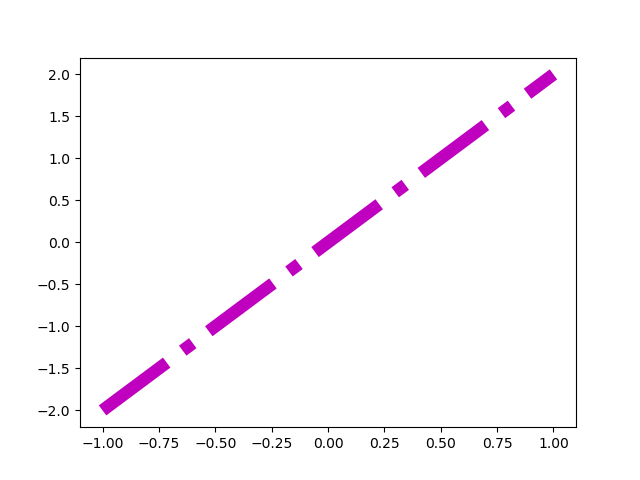
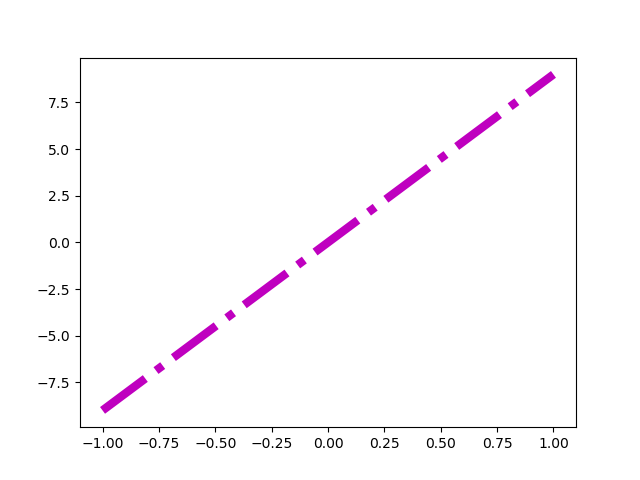
first commit

diff --git a/example.py b/example.py
@@ -2,7 +2,7 @@ import matplotlib.pyplot as plt
 import numpy as np
 
 x = np.linspace(-1, 1, 50)
-y = 2*x
+y = 9*x
 
-plt.plot(x, y,'m-.',linewidth=9)
+plt.plot(x, y,'m-.',linewidth=6)
 plt.savefig('chart.png')

diff --git a/README.md b/README.md
@@ -1,4 +1,4 @@
-# Line Chart Viola 
+# Line Chart Helen 
 
 Chart example for Python
 
